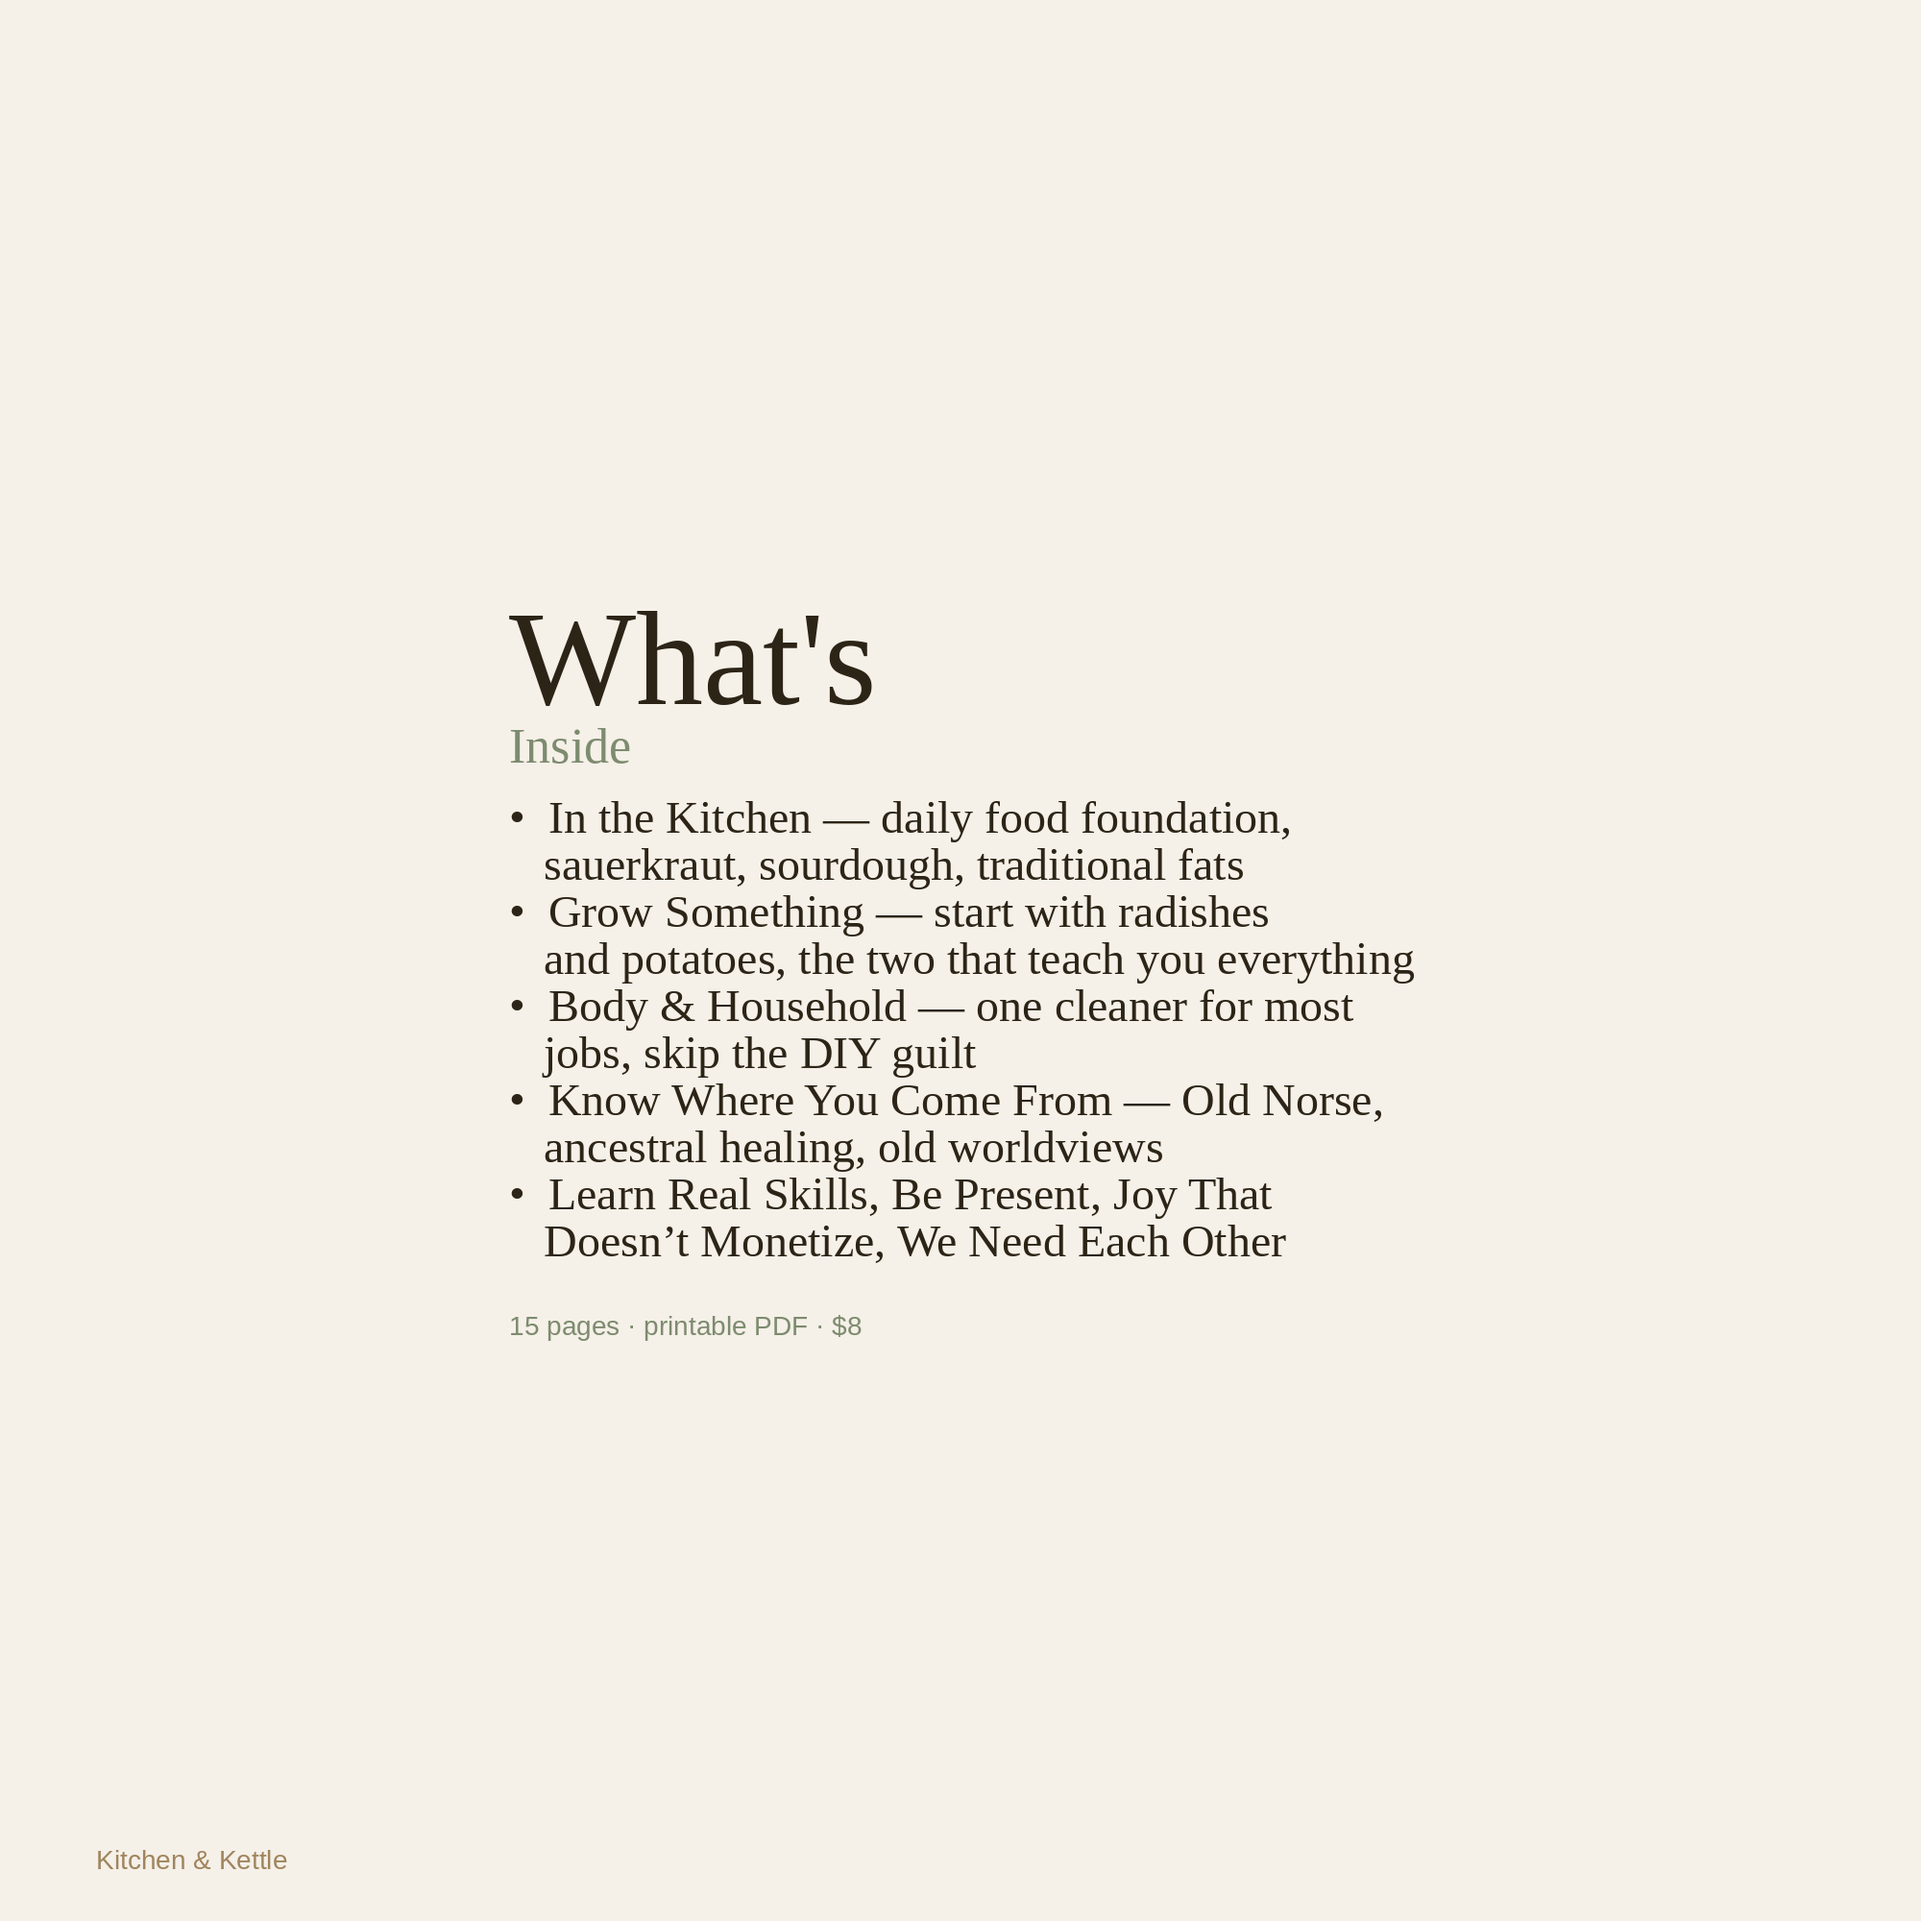
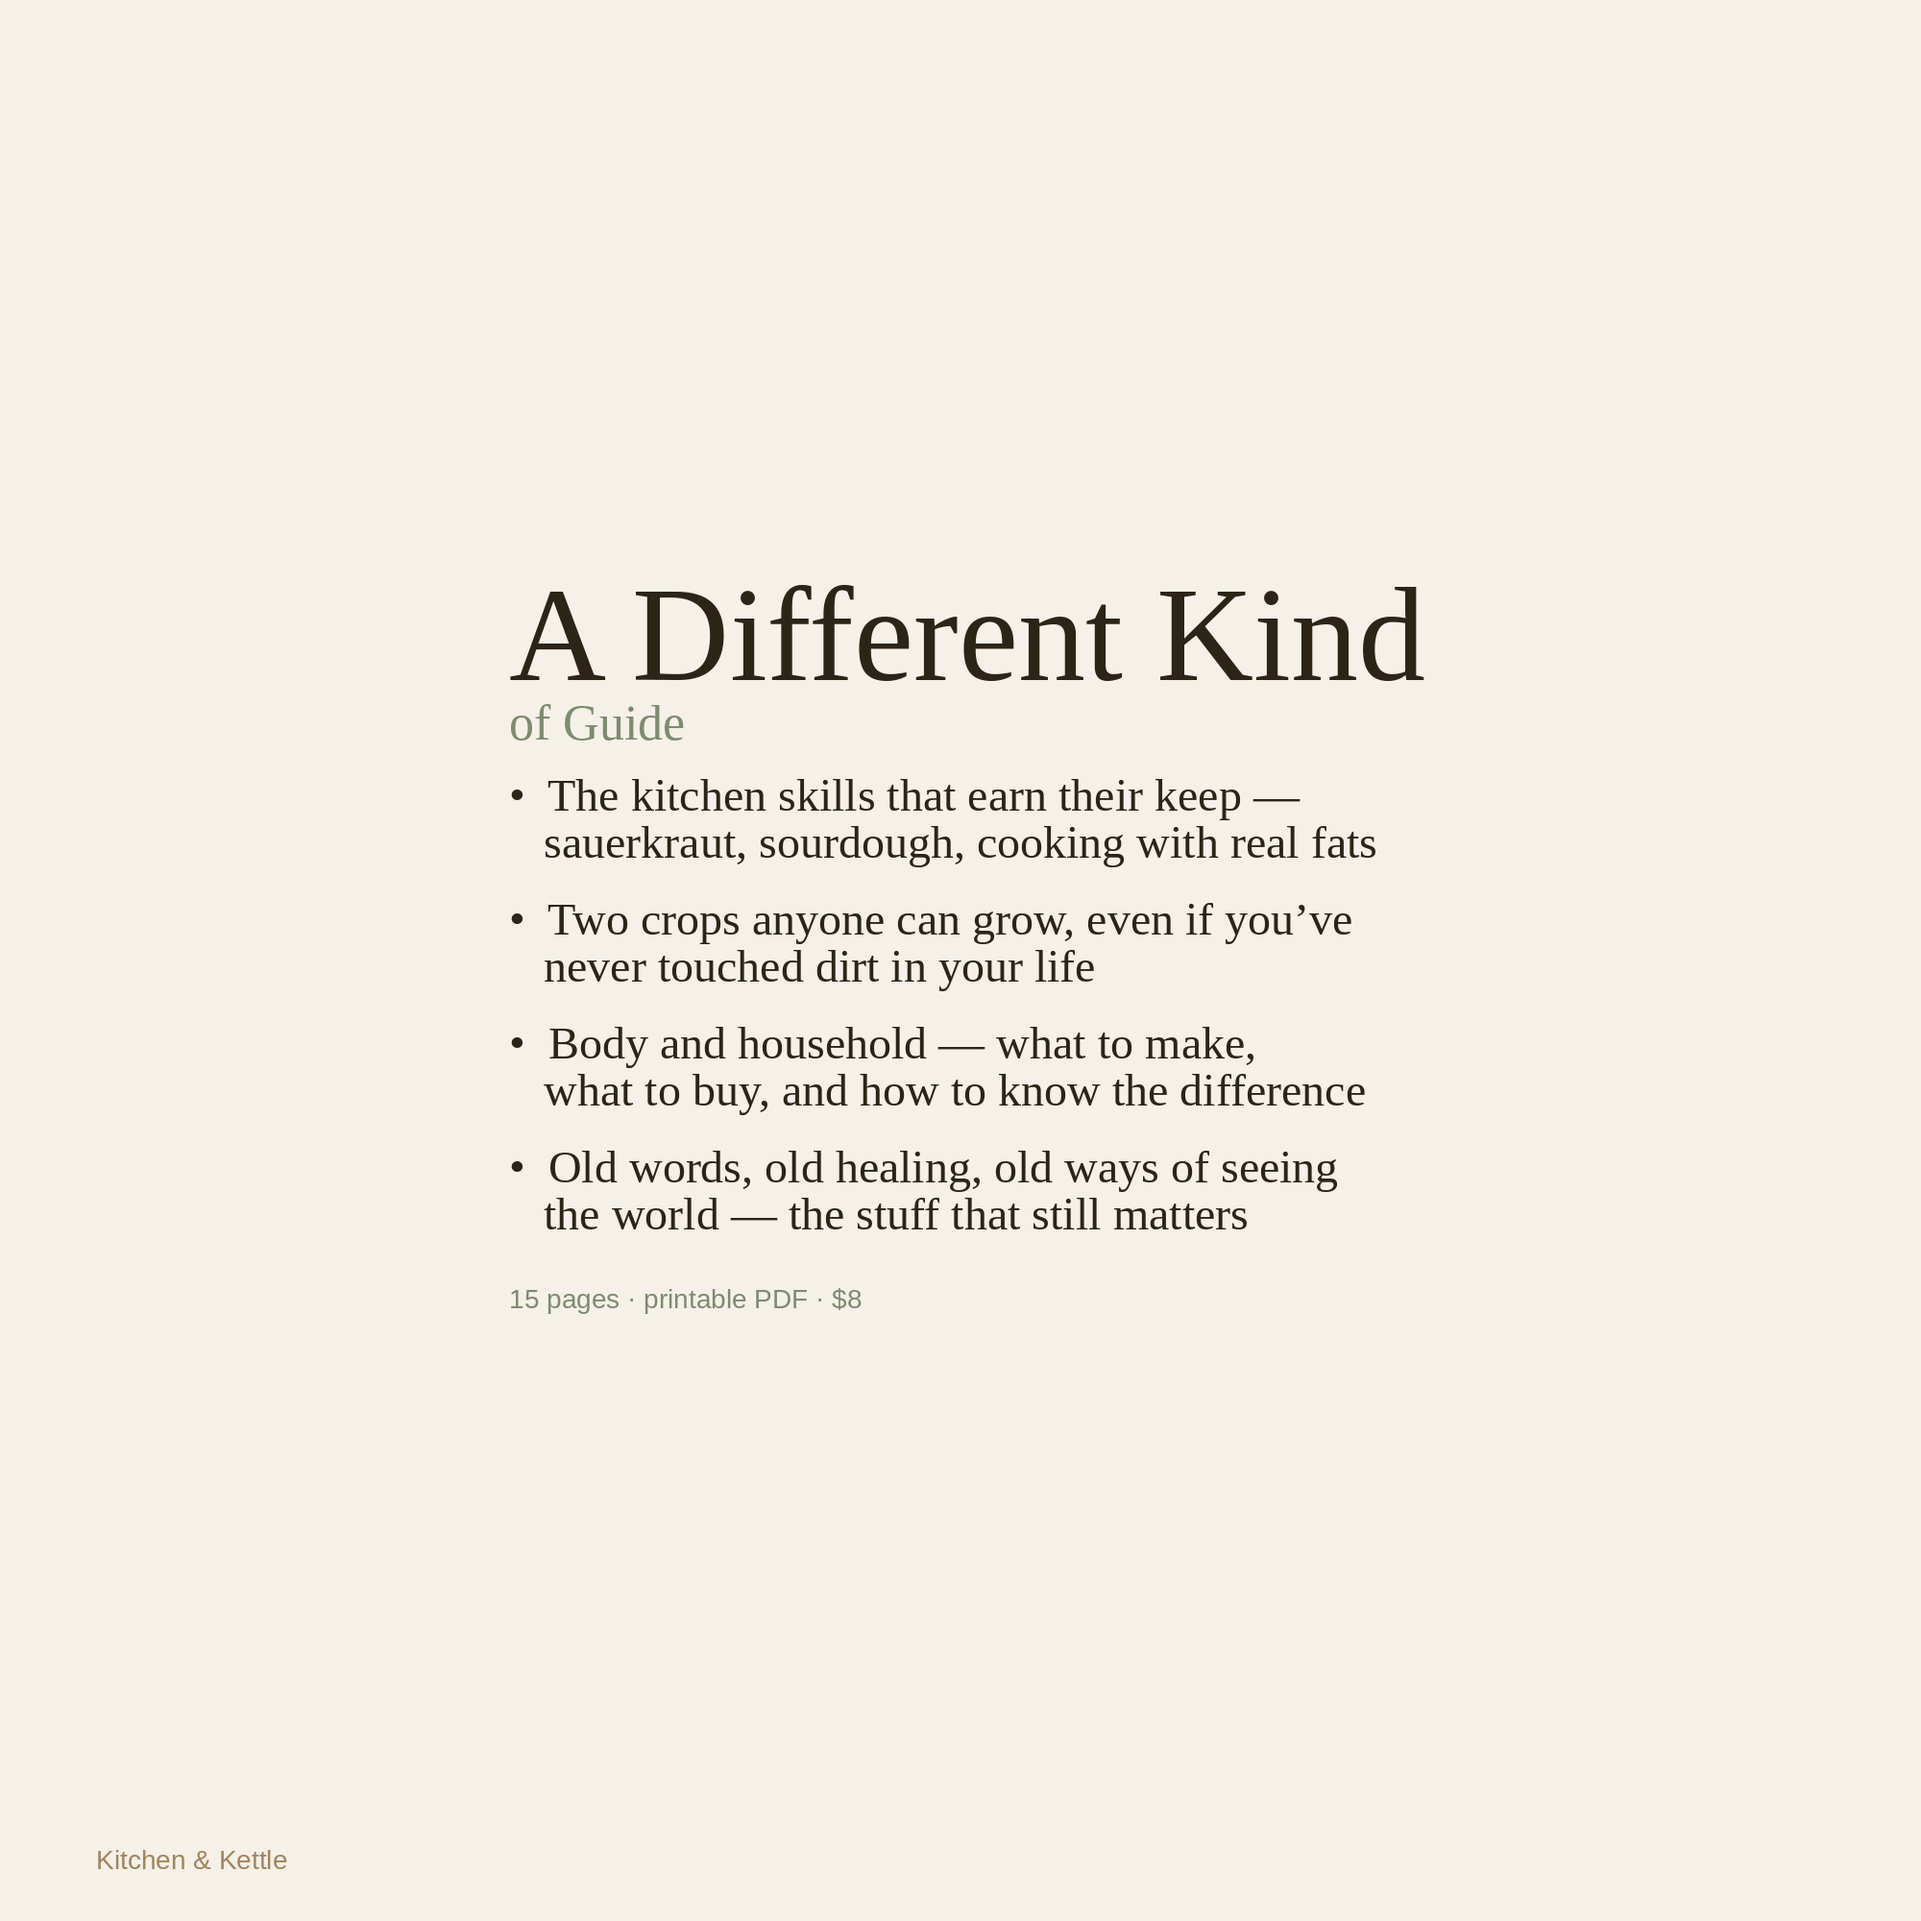
ancestral-living-guide: listing.md, revised info cards, title targets skeptics

Changed region(s): [[0.248, 0.31, 0.744, 0.713]]

diff --git a/digital-products/ancestral-living-guide/generate_info_cards.py b/digital-products/ancestral-living-guide/generate_info_cards.py
@@ -71,19 +71,20 @@ def make_card(filename, title, subtitle, bullets, page_note):
 # --- Card 1: What's Inside ---
 make_card(
     'ancestral-living-image.png',
-    "What's",
-    'Inside',
+    "A Different Kind",
+    'of Guide',
     [
-        '\u2022  In the Kitchen \u2014 daily food foundation,',
-        '   sauerkraut, sourdough, traditional fats',
-        '\u2022  Grow Something \u2014 start with radishes',
-        '   and potatoes, the two that teach you everything',
-        '\u2022  Body & Household \u2014 one cleaner for most',
-        '   jobs, skip the DIY guilt',
-        '\u2022  Know Where You Come From \u2014 Old Norse,',
-        '   ancestral healing, old worldviews',
-        '\u2022  Learn Real Skills, Be Present, Joy That',
-        '   Doesn\u2019t Monetize, We Need Each Other',
+        '\u2022  The kitchen skills that earn their keep \u2014',
+        '   sauerkraut, sourdough, cooking with real fats',
+        '',
+        '\u2022  Two crops anyone can grow, even if you\u2019ve',
+        '   never touched dirt in your life',
+        '',
+        '\u2022  Body and household \u2014 what to make,',
+        '   what to buy, and how to know the difference',
+        '',
+        '\u2022  Old words, old healing, old ways of seeing',
+        '   the world \u2014 the stuff that still matters',
     ],
     '15 pages \u00b7 printable PDF \u00b7 $8',
 )
@@ -94,21 +95,20 @@ make_card(
     'No Soap',
     'Making Required',
     [
-        '\u2022  This is not a homesteading guide. It\u2019s',
-        '   permission to stop trying so hard.',
+        '\u2022  This isn\u2019t a manual for becoming a',
+        '   one-woman homestead. It\u2019s permission to',
+        '   stop trying so hard.',
         '',
         '\u2022  Our ancestors didn\u2019t do everything',
-        '   themselves \u2014 they supported the people',
-        '   around them who were good at their craft.',
+        '   themselves. They supported the craftspeople',
+        '   around them. You can too.',
         '',
-        '\u2022  Cook with butter and tallow. Learn a few',
-        '   words of an old language. Grow radishes.',
-        '   Make sauerkraut. The skills that actually',
-        '   matter, without the guilt.',
+        '\u2022  Twelve years of chasing the wrong version',
+        '   of this \u2014 and what finally made it click.',
         '',
-        '\u2022  Written by someone who spent 12 years',
-        '   chasing the wrong version of this \u2014 and',
-        '   finally figured out what actually works.',
+        '\u2022  If a skill exhausts you instead of settling',
+        '   you, it\u2019s not ancestral. It\u2019s just guilt in',
+        '   a mason jar.',
     ],
     'Interactive PDF \u00b7 write in your notes \u00b7 printable',
 )

diff --git a/digital-products/ancestral-living-guide/listing.md b/digital-products/ancestral-living-guide/listing.md
@@ -1,0 +1,52 @@
+# Etsy Listing — Old Ways That Actually Work (Ancestral Living Guide)
+
+## Category
+Guides & How Tos
+Type: Digital download
+
+## Title (copy-paste)
+Ancestral Living Guide | Old Ways That Actually Work | Not the Influencer Lifestyle | Sauerkraut Sourdough Traditional Fats 
+
+## Photos (upload in this order)
+1. primary-ancestral-living-image.jpg
+2. ancestral-living-image.png
+3. ancestral-living-image-2.png
+
+## Description (copy-paste)
+Most of what gets sold as "ancestral living" is guilt wrapped in burlap: make everything yourself, buy nothing, become a one-woman farm by Tuesday.
+
+This isn't that. I spent twelve years chasing that version and it left me exhausted, not connected. What I eventually learned is that our ancestors didn't do everything themselves. They supported the soap maker, the baker, the herbalist. They put their effort where it counted and relied on each other for the rest. This guide is about knowing the difference.
+
+**What's inside (15 pages):**
+- In the Kitchen — the daily food foundation, sauerkraut and sourdough step by step, why butter and tallow beat seed oils every time
+- Grow Something — two crops anyone can start with, even if you've never touched dirt
+- Body & Household — one cleaner for most jobs, what to make versus what to buy, and why your husband's skin might be reacting to "natural" soap
+- Know Where You Come From — Old Norse, ancestral healing, and old worldviews that still hold up
+- Learn Real Skills, Be Present, Joy That Doesn't Monetize, and We Need Each Other
+
+There are no soap recipes. No instructions for grinding flour. No pressure. Just the handful of old ways that actually earn their place in a modern life — and permission to skip the rest.
+
+▶ This is a digital download. No physical product will be shipped.
+▶ To open: double-click the HTML file to open in your browser. If that doesn't work, drag and drop the file into any open browser window (Chrome, Safari, Firefox, Edge). No special software needed.
+▶ To print: File → Print. Use letter-size paper (8.5×11"), 100% scale.
+▶ To save as PDF: File → Print → Save as PDF (built into every browser).
+▶ Type into the notes fields — your entries save to your device automatically. No account, no cloud, fully private.
+▶ Works with GoodNotes, Notability, and any PDF app.
+
+## Tags (copy-paste, comma-separated)
+ancestral living, traditional cooking, sauerkraut recipe, sourdough guide, grow your own food, old ways, natural living guide, simple living, homestead skills, traditional fats, seed oil free, printable guide, kitchen skills
+
+## Pinterest (copy-paste)
+### Title
+Old Ways That Actually Work | Not the Influencer Kind | Sauerkraut Sourdough Traditional Fats | Ancestral Living Guide
+
+### Description
+Most "ancestral living" content is guilt wrapped in burlap. This isn't that. No soap recipes, no grinding flour, no pressure to become a one-woman farm. Just sauerkraut and sourdough step by step, why butter and tallow beat seed oils, two crops anyone can grow, Old Norse phrases worth knowing, and the handful of old ways that actually earn their place in a modern life. 15-page printable PDF from Kitchen & Kettle. Old ways, without the guilt.
+
+## Price
+
+$8.00
+
+## Digital files to upload
+- ancestral-living-guide.pdf (recommended for buyers)
+- ancestral-living-guide.html (bonus — for browser viewing)
